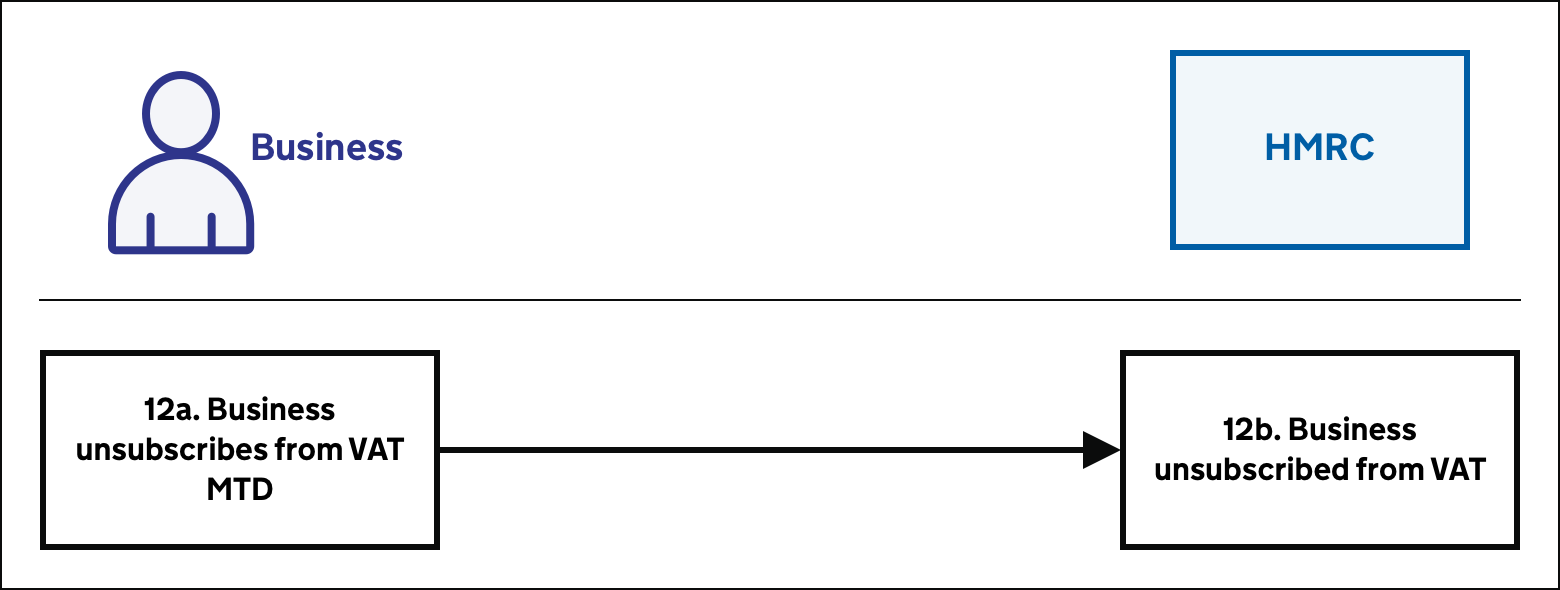
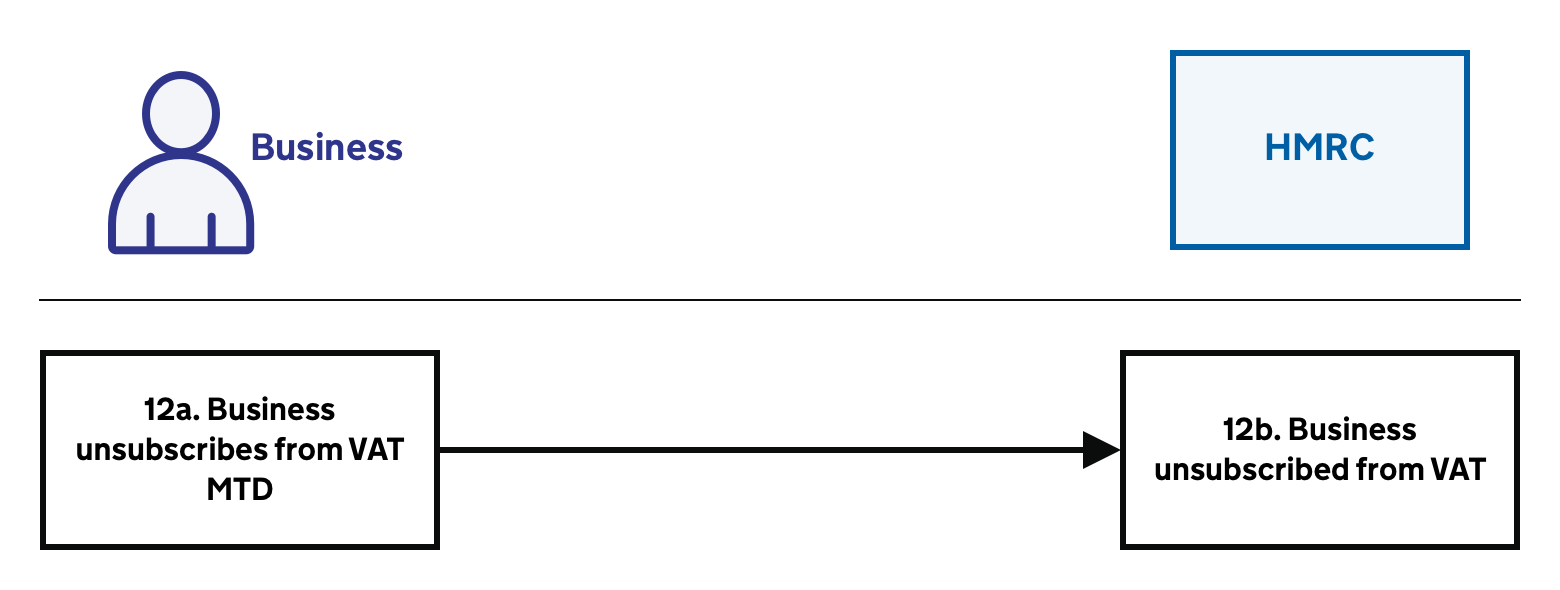
updated business diagrams

Changed region(s): [[0.0, 0.9763, 1.0, 1.0], [0.0, 0.0, 1.0, 0.0305]]

diff --git a/source/documentation/business-journey.md b/source/documentation/business-journey.md
@@ -20,27 +20,27 @@
 Before businesses can submit VAT returns, they must register for VAT and set up their software.
 
 <img src="documentation/figures/business-start-up.png"
-alt="Business start up diagram" style="width:520px;" />
+alt="Business start up diagram" border="1px"; style="width:520px;" />
 
 ### Active
 
 The business journey for active businesses.
 
 <img src="documentation/figures/business-active.png"
-alt="Business active diagram" style="width:520px;" />
+alt="Business active diagram" border="1px"; style="width:520px;" />
 
 ### Penalties and appeals
 
 The business journey for penalty and interest payments and appeals.
 
 <img src="documentation/figures/business-penalties.png"
-alt="Business penalties and appeals diagram" style="width:520px;" />
+alt="Business penalties and appeals diagram" border="1px"; style="width:520px;" />
 
 ### Closedown
 
 Businesses may choose to unsubscribe from VAT MTD.
 
 <img src="documentation/figures/business-closedown.png"
-alt="Business closedown diagram" style="width:520px;" />
+alt="Business closedown diagram" border="1px"; style="width:520px;" />
 
 [View the full End-to-end business journey as a numbered list](#business-journey-submit-a-vat-return-using-the-mtd-process)
